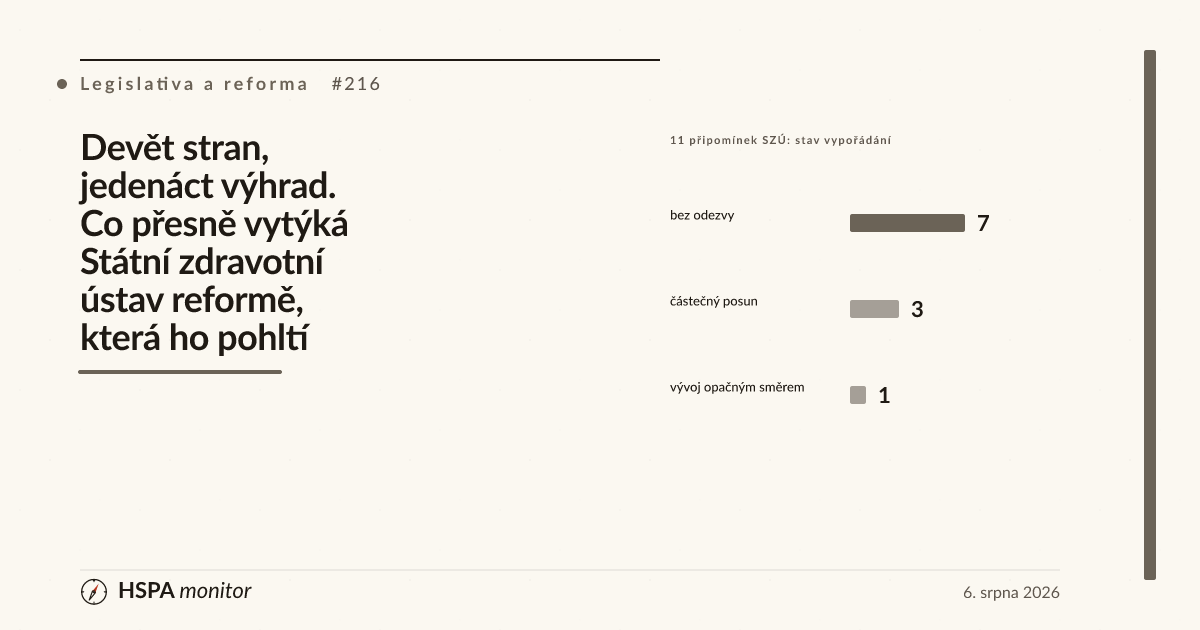
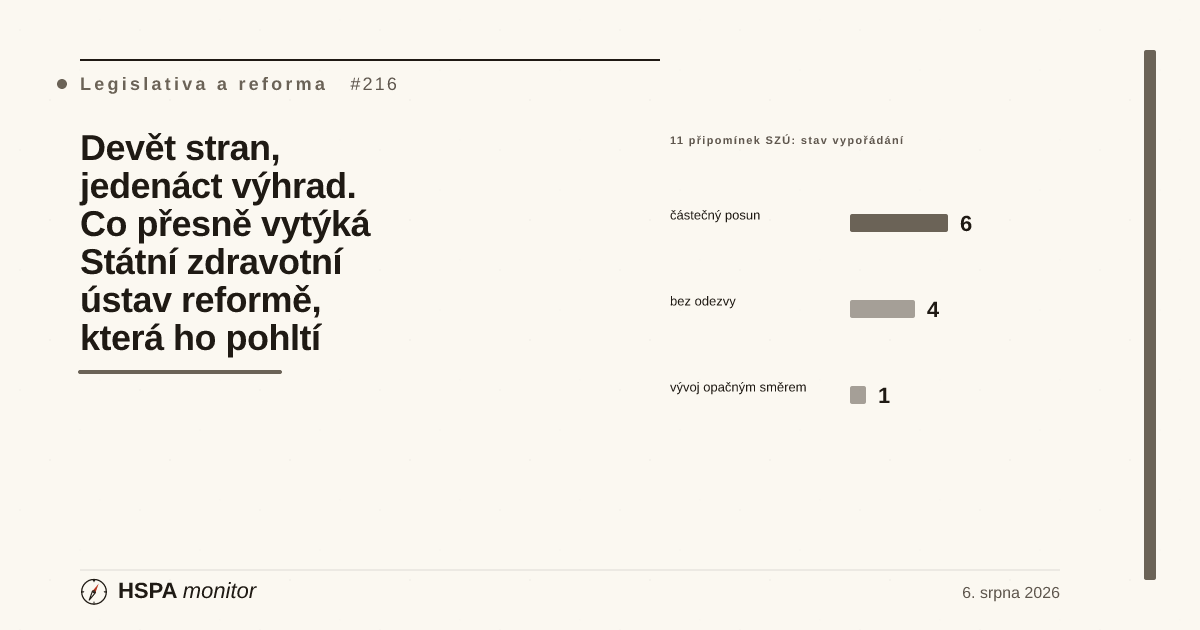
feat(clanky): zapracovan zapis IX — harmonogram fakticky rusi start 2028
Zapis z IX. jednani PS (15. 7. 2026, dodala redakce) do obou dilu serie:

Kompendium:
- timeline +IX. jednani (krizova cast hotova, RIA se zadava — nabidka
  1,4 mil. Kc, zvazovano akademicke pracoviste; duvodova zprava stavi
  na vystupech WHO workshopu; podskupiny "se zakladaji" se vsemi vedoucimi)
- HARMONOGRAM z prilohy zapisu: vnitrni PR 30. 9.-14. 10. 2026,
  fakultativni 7.-18. 12. 2026, meziresort 12. 4.-7. 5. 2027,
  LRV + vlada 30. 8. 2027 -> polozka "1. 1. 2028" prepnuta na
  "harmonogramem prekonan", realny start ~2029 (= casova osa scenare B,
  pozn. u scenaru aktualizovana)
- vysvedceni: aktualizacni odstavec (co se pohnulo + NCLP: ciselnik
  laboratornich polozek drzi ~3 pracovnici na DPP, ohrozena e-zadanka
  1. 7. 2027 — ilustrace krehkosti kapacit v duchu varovani SZU)
- podskupiny tabulka +radek IX; EPHF: duvodova zprava skutecne
  vyuziva WHO workshop; jednani 8x -> 9x; zdroje I.-IX.

Dil 2 (szu-pripominky-nivz) — prepocet vyporadani:
- vyhrada 1 (analyza): bez odezvy -> castecny posun (RIA + WHO workshop)
- vyhrady 8-9 (krize): bez odezvy -> castecny posun (krizova cast
  "dokoncena", obsah nezverejnen)
- vyhrada 4-5: +podskupina veda a vyzkum na navrh SZU
- nova bilance 6/4/1 sladena v decku, counteru, JSON-LD, perexu,
  cover_viz (cover pregenerovan) i zaveru; zaver navic: harmonogram
  posouva start za 1. 1. 2028

Verifikace: 973/973 testu, validate:all cisty, vsechna cisla overena
proti PDF zapisu IX; artefakty mimo diff.
[…]

diff --git a/05_M1_Starter/clanek-institut-verejneho-zdravi.html b/05_M1_Starter/clanek-institut-verejneho-zdravi.html
@@ -58,7 +58,7 @@
         "@id": "https://skorezdravotnictvi.cz/clanek-institut-verejneho-zdravi"
       },
       "datePublished": "2026-05-08",
-      "dateModified": "2026-08-07",
+      "dateModified": "2026-08-10",
       "author": {
         "@type": "Organization",
         "name": "HSPA Monitor",
@@ -141,7 +141,7 @@
       <div class="article-meta">
         <span class="article-meta-date">8. května 2026</span>
         <span class="article-meta-sep">·</span>
-        <span class="article-meta-date">aktualizováno 7. srpna 2026</span>
+        <span class="article-meta-date">aktualizováno 10. srpna 2026</span>
         <span class="article-meta-sep">·</span>
         <span class="article-meta-time">21 minut čtení</span>
         <span class="article-meta-sep">·</span>
@@ -157,7 +157,7 @@
 
       <p>
         <strong>Aktualizace 6. srpna 2026:</strong> Článek jsme podstatně rozšířili. Od jarního vydání se reforma posunula:
-        pracovní skupina ministerstva jednala osmkrát, návrh změnil jméno (z „Czech CDC" na <strong>Národní institut
+        pracovní skupina ministerstva jednala devětkrát, návrh změnil jméno (z „Czech CDC" na <strong>Národní institut
         veřejného zdraví</strong>, NIVZ) i ukotvení (samostatný ústřední orgán státní správy podřízený vládě, nikoli
         ministerstvu), Státní zdravotní ústav uplatnil zásadní připomínky a ministerstvo oznámilo, že návrh zákona zamíří
         do vnitřního připomínkového řízení na přelomu září a října 2026. Doplnili jsme finanční data slučovaných institucí,
@@ -315,26 +315,32 @@
             <p class="av-timeline-desc">Čtvrt roku po dohodě je teprve potřeba „informovat nominované o jejich členství". Shoda: nejprve legislativa, provozní detaily později.</p>
             <span class="av-timeline-tag">Kapacita</span>
           </li>
+          <li class="av-timeline-item av-timeline-item-done">
+            <time class="av-timeline-date">15. 7. 2026</time>
+            <h4 class="av-timeline-title">IX. jednání: harmonogram na stole, podskupiny se „zakládají"</h4>
+            <p class="av-timeline-desc">Krizová část návrhu dokončena; zadává se RIA (komerční nabídka 1,4 mil. Kč, zvažováno akademické pracoviště); důvodová zpráva staví na výstupech WHO workshopu. Podskupiny dostávají všechny vedoucí a mají „zintenzivnit činnost".</p>
+            <span class="av-timeline-tag">PS</span>
+          </li>
           <li class="av-timeline-item av-timeline-item-now">
             <time class="av-timeline-date">léto 2026</time>
-            <h4 class="av-timeline-title">Příprava paragrafového znění</h4>
-            <p class="av-timeline-desc">Novela zákona č. 258/2000 Sb., nebo zcela nový zákon; interní prezentace vedoucím pracovníkům dotčených institucí (13. 7.).</p>
+            <h4 class="av-timeline-title">Finalizace paragrafového znění</h4>
+            <p class="av-timeline-desc">Novela zákona č. 258/2000 Sb.; dle harmonogramu z IX. jednání finalizace textu do 30. 8. a předložení poradě vedení MZ.</p>
             <span class="av-timeline-tag">Teď</span>
           </li>
           <li class="av-timeline-item av-timeline-item-future">
-            <time class="av-timeline-date">přelom září/října 2026</time>
+            <time class="av-timeline-date">30. 9. – 14. 10. 2026</time>
             <h4 class="av-timeline-title">Vnitřní připomínkové řízení</h4>
-            <p class="av-timeline-desc">Termín potvrzený tiskovým oddělením MZ ČR. Následuje meziresort, vláda, parlament.</p>
+            <p class="av-timeline-desc">Dle harmonogramu (příloha zápisu IX): poté fakultativní PŘ 7.–18. 12. 2026, meziresort 12. 4. – 7. 5. 2027 a předložení Legislativní radě vlády a vládě 30. 8. 2027.</p>
             <span class="av-timeline-tag">Plán</span>
           </li>
-          <li class="av-timeline-item av-timeline-item-future">
+          <li class="av-timeline-item av-timeline-item-warn">
             <time class="av-timeline-date">1. 1. 2028</time>
-            <h4 class="av-timeline-title">Cílové spuštění NIVZ</h4>
-            <p class="av-timeline-desc">Mezi platným zákonem a startem instituce zbývají při tomto harmonogramu spíše měsíce než roky.</p>
+            <h4 class="av-timeline-title">Deklarovaný cíl spuštění NIVZ — harmonogramem překonán</h4>
+            <p class="av-timeline-desc">Jde-li návrh vládě až 30. 8. 2027, musel by parlament, Senát i prezident stihnout vše za čtyři měsíce. Reálný start se posouvá k roku 2029.</p>
             <span class="av-timeline-tag">Cíl</span>
           </li>
         </ol>
-        <p class="av-figure-note"><strong>Zdroj:</strong> zápisy z I.–VIII. jednání Pracovní skupiny pro reformu veřejného zdraví (ppo.mzcr.cz, 4. 3.–25. 6. 2026); vyjádření MZ ČR (srpen 2026). Staženo 6.–7. 8. 2026.</p>
+        <p class="av-figure-note"><strong>Zdroj:</strong> zápisy z I.–IX. jednání Pracovní skupiny pro reformu veřejného zdraví (ppo.mzcr.cz, 4. 3.–15. 7. 2026) vč. harmonogramu v příloze zápisu IX; vyjádření MZ ČR (srpen 2026). Staženo 6.–10. 8. 2026.</p>
       </figure>
 
       <h3>Peníze: systém, který pět let vysychá</h3>
@@ -678,9 +684,10 @@
         v ČR</strong> po vzoru Slovinska: institucionální mapování, dvoudenní expertní workshop (plánovaný na červen,
         s nominacemi z KHS a zdravotních ústavů) a finální report do zhruba čtyř měsíců, převážně hrazeno kanceláří WHO.
         Pokud harmonogram platil, výstup by měl být hotový kolem konce léta — tedy přesně včas na to, aby se stal
-        analytickou částí důvodové zprávy, jejíž absenci SZÚ reformě vytýká. K 7. 8. 2026 nebyl report veřejně dostupný;
-        jestli do vnitřního připomínkového řízení skutečně vstoupí, je jeden z nejjednodušších testů, zda reforma
-        s vlastní evidencí pracuje.
+        analytickou částí důvodové zprávy, jejíž absenci SZÚ reformě vytýká. A zápis z IX. jednání (15. 7.) naznačuje,
+        že se to skutečně děje: důvodová zpráva „je připravována s využitím výstupů z workshopu WHO" a draft výstupů
+        měl být rozeslán podskupinám. Samotný report k 10. 8. 2026 veřejně dostupný nebyl — jestli se v důvodové
+        zprávě na podzim objeví celý, zůstává nejjednodušším testem, zda reforma s vlastní evidencí pracuje.
       </p>
 
       <h3>Jak hodnotit systém veřejného zdraví: existující metodiky</h3>
@@ -1070,6 +1077,11 @@
                 <td>VIII.</td>
                 <td>„Pracovní podskupiny mají začít fungovat, je třeba jim distribuovat podklady a informovat nominované o jejich členství."</td>
               </tr>
+              <tr>
+                <th scope="row">15. 7.</th>
+                <td>IX.</td>
+                <td>podskupiny se „zakládají" — 4,5 měsíce po dohodě; doplněni zbývající vedoucí (ekonomika: E. Ježo, personální: M. Bartoš, právní: L. Krausová), rytmus 1× za 2 týdny, výstupy do konce srpna; právní a nová vědecko-výzkumná podskupina zatím „v pohotovosti (neaktivována)"</td>
+              </tr>
             </tbody>
           </table>
         </div>
@@ -1116,7 +1128,7 @@
         <ol class="av-bar-compare av-bar-compare-list" data-max="61" data-unit="&nbsp;FTE">
           <li class="av-bar-row" data-value="53" data-display="46–61" data-label="potřeba — špička" data-note="deset proudů výše"></li>
           <li class="av-bar-row" data-value="35" data-display="30–40" data-label="jádro na 2–3 roky"></li>
-          <li class="av-bar-row av-bar-row-bad" data-value="2" data-display="~1–2" data-label="realita dnes" data-note="PS 2 h / 14 dní + úkoly členů vedle vlastních institucí; podskupiny nefungují"></li>
+          <li class="av-bar-row av-bar-row-bad" data-value="2" data-display="~1–2" data-label="realita dnes" data-note="PS 2 h / 14 dní + úkoly členů vedle vlastních institucí; podskupiny se dle zápisu IX v červenci teprve zakládaly"></li>
         </ol>
         <p class="av-figure-note"><strong>Zdroj:</strong> odhad redakce; kadence a stav podskupin dle zápisů PS (4. 3.–25. 6. 2026). Rozdíl není o desítky procent — je o řád.</p>
       </figure>
@@ -1260,6 +1272,19 @@
       </p>
 
       <p>
+        <strong>Aktualizace po zápisu z IX. jednání (15. 7.):</strong> část deficitů se skutečně začala dohánět —
+        podskupiny dostaly zbývající vedoucí a čtrnáctidenní rytmus, krizová část návrhu je hotová, zadává se RIA
+        a důvodová zpráva staví na výstupech WHO workshopu. Zároveň ale příloha zápisu poprvé ukázala úplný
+        legislativní harmonogram — a ten <strong>fakticky ruší deklarovaný start 1. 1. 2028</strong>: meziresortní
+        připomínkové řízení je plánováno až na duben 2027 a vládě má návrh doputovat 30. 8. 2027. Aby institut vznikl
+        v roce 2028, musel by parlament, Senát i prezident stihnout celé projednání za čtyři měsíce; reálný horizont
+        se posouvá k roku 2029 — tedy tam, kam mířil náš scénář B. A zápis přinesl i novou ilustraci křehkosti
+        expertních kapacit, přesně v duchu varování SZÚ: národní číselník laboratorních položek, na kterém stojí
+        plánované real-time hlášení laboratorních výsledků i e-žádanka (start 1. 7. 2027), fakticky spravují
+        „cca tři pracovníci na DPP".
+      </p>
+
+      <p>
         Co sledovat na podzim, až návrh vstoupí do připomínkového řízení: <strong>za prvé</strong>, jestli důvodová
         zpráva obsahuje skutečnou analýzu a varianty, nebo jen zdůvodnění jediného řešení. <strong>Za druhé</strong>,
         jestli vláda spolu se zákonem schválí transformační tým s rozpočtem a jmenovitým programovým ředitelem na plný
@@ -1300,7 +1325,7 @@
             </tbody>
           </table>
         </div>
-        <p class="av-figure-note"><strong>Pozn.:</strong> jde o redakční odhad možných průběhů, ne predikci — pravděpodobnosti nepřiřazujeme. Kritéria, podle kterých se scénáře rozliší, odpovídají pěti bodům výše.</p>
+        <p class="av-figure-note"><strong>Pozn.:</strong> jde o redakční odhad možných průběhů, ne predikci — pravděpodobnosti nepřiřazujeme. Kritéria, podle kterých se scénáře rozliší, odpovídají pěti bodům výše. <strong>Aktualizace 10. 8.:</strong> harmonogram z přílohy zápisu IX (vládě 30. 8. 2027) posouvá start institutu za rok 2028 i v optimistické větvi — časová osa scénáře B se stala oficiálním plánem; o obsahu (analýza, varianty, čísla) se rozhodne na podzim.</p>
       </figure>
 
     </div>
@@ -1345,7 +1370,7 @@
       <div class="sources-group">
         <h5 class="sources-group-h">Primární dokumenty reformy (aktualizace 8/2026)</h5>
         <ul class="article-sources-list">
-          <li><strong>Zápisy z I.–VIII. jednání Pracovní skupiny pro reformu veřejného zdraví v ČR</strong> — 4. 3. až 25. 6. 2026, portál pracovních orgánů MZ ČR. Zdroj chronologie, rozpočtových řad (III. jednání), směru „pod vládu" a variant vzniku (IV.), struktury NIVZ (VII.–VIII.) i stavu podskupin. <a href="https://ppo.mzcr.cz/workGroup/227" target="_blank" rel="noopener">ppo.mzcr.cz ↗</a></li>
+          <li><strong>Zápisy z I.–IX. jednání Pracovní skupiny pro reformu veřejného zdraví v ČR</strong> — 4. 3. až 15. 7. 2026, portál pracovních orgánů MZ ČR. Zdroj chronologie, rozpočtových řad (III. jednání), směru „pod vládu" a variant vzniku (IV.), struktury NIVZ (VII.–VIII.), stavu podskupin i legislativního harmonogramu (příloha zápisu IX: vnitřní PŘ 30. 9.–14. 10. 2026, meziresort 12. 4.–7. 5. 2027, vládě 30. 8. 2027). <a href="https://ppo.mzcr.cz/workGroup/227" target="_blank" rel="noopener">ppo.mzcr.cz ↗</a></li>
           <li><strong>Připomínky vedení SZÚ k návrhu koncepce „Czech CDC / Státní ústav veřejného zdraví"</strong> — 24. 5. 2026, zpracovala Ing. Sosnovcová; příloha zápisu ze VII. jednání PS. Zdroj citací o chybějící analýze, variantách, ekonomice OSS vs. příspěvkové organizace a § 69/80/82.</li>
           <li><strong>Statut Pracovní skupiny</strong> — zřizovací dekret ministra zdravotnictví č. 11/2026/ZDM (čl. 2: analýza → problémy → varianty → přechodná opatření); citováno dle připomínek SZÚ.</li>
           <li><strong>Deník N</strong> — M. Boubínová: „Vojtěch chystá obří reformu ochrany veřejného zdraví" (srpen 2026). Zdroj termínu vnitřního připomínkového řízení (přelom září/října), reakcí R. Maďara a vyjádření tiskového oddělení MZ ČR. <a href="https://denikn.cz/2146297/vojtech-chysta-obri-reformu-ochrany-verejneho-zdravi-co-je-v-planu-a-proc-navrh-kritizuje-zdravotni-ustav/" target="_blank" rel="noopener">denikn.cz ↗</a></li>

diff --git a/05_M1_Starter/clanek-szu-pripominky-nivz.html b/05_M1_Starter/clanek-szu-pripominky-nivz.html
@@ -43,7 +43,7 @@
       "@type": "NewsArticle",
       "@id": "https://skorezdravotnictvi.cz/clanek-szu-pripominky-nivz#article",
       "headline": "Devět stran, jedenáct výhrad. Co přesně vytýká Státní zdravotní ústav reformě, která ho pohltí",
-      "description": "Instituce, kterou má reforma veřejného zdraví sloučit do nového Národního institutu veřejného zdraví, poslala pracovní skupině ministerstva devět stran zásadních připomínek. Přečetli jsme je bod po bodu — a proti zápisům z jednání jsme dohledali, co se s každou výhradou zatím stalo. Výsledek: tři se pohnuly aspoň napůl, jedna se vyvinula přesně opačně a sedm zůstává bez odpovědi.",
+      "description": "Instituce, kterou má reforma veřejného zdraví sloučit do nového Národního institutu veřejného zdraví, poslala pracovní skupině ministerstva devět stran zásadních připomínek. Přečetli jsme je bod po bodu — a proti zápisům z jednání jsme dohledali, co se s každou výhradou zatím stalo. Výsledek: šest se jich po devátém jednání pohnulo aspoň napůl, jedna se vyvinula přesně opačně a čtyři zůstávají bez odpovědi.",
       "inLanguage": "cs-CZ",
       "image": [
         "https://skorezdravotnictvi.cz/assets/covers/clanek-szu-pripominky-nivz.png"
@@ -54,7 +54,7 @@
         "@id": "https://skorezdravotnictvi.cz/clanek-szu-pripominky-nivz"
       },
       "datePublished": "2026-08-06",
-      "dateModified": "2026-08-07",
+      "dateModified": "2026-08-10",
       "author": {
         "@type": "Organization",
         "name": "HSPA Monitor",
@@ -134,13 +134,13 @@
       <p class="article-deck">
         Instituce, kterou má reforma veřejného zdraví sloučit do nového Národního institutu veřejného zdraví, poslala
         pracovní skupině ministerstva devět stran zásadních připomínek. Přečetli jsme je bod po bodu — a proti zápisům
-        z jednání jsme dohledali, co se s každou výhradou zatím stalo. Výsledek: tři se pohnuly aspoň napůl, jedna
-        se vyvinula přesně opačně a sedm zůstává bez odpovědi.
+        z jednání jsme dohledali, co se s každou výhradou zatím stalo. Výsledek: šest se jich po devátém jednání
+        pohnulo aspoň napůl, jedna se vyvinula přesně opačně a čtyři zůstávají bez odpovědi.
       </p>
       <div class="article-meta">
         <span class="article-meta-date">6. srpna 2026</span>
         <span class="article-meta-sep">·</span>
-        <span class="article-meta-date">aktualizováno 7. srpna 2026</span>
+        <span class="article-meta-date">aktualizováno 10. srpna 2026</span>
         <span class="article-meta-sep">·</span>
         <span class="article-meta-time">11 minut čtení</span>
         <span class="article-meta-sep">·</span>
@@ -177,9 +177,9 @@
             <span class="av-counter-foot">sloučení 14 KHS do jednoho úřadu je „institucionálně odůvodněné"</span>
           </div>
           <div class="av-counter-block av-counter-block-bad">
-            <span class="av-counter" data-value="7">7</span>
-            <span class="av-counter-label">výhrad zatím bez odezvy</span>
-            <span class="av-counter-foot">hodnocení redakce podle zápisů z VII. a VIII. jednání PS</span>
+            <span class="av-counter" data-value="4">4</span>
+            <span class="av-counter-label">výhrady zatím bez odezvy</span>
+            <span class="av-counter-foot">hodnocení redakce podle zápisů ze VII.–IX. jednání PS</span>
           </div>
         </div>
         <p class="av-figure-note"><strong>Zdroj:</strong> Připomínky vedení SZÚ k návrhu koncepce „Czech CDC / Státní ústav veřejného zdraví", 24. 5. 2026; zápisy PS (ppo.mzcr.cz/workGroup/227).</p>
@@ -439,11 +439,11 @@
       <p>
         Dokument se stal přílohou zápisu ze VII. jednání (26. 5.) a zástupce SZÚ dostal za úkol stanovisko
         odprezentovat. Porovnali jsme pak každou výhradu s tím, co zachycují zápisy z jednání pracovní skupiny —
-        zejména ze IV. (13. 4.), VII. (26. 5.) a VIII. (25. 6.):
+        zejména ze IV. (13. 4.), VII. (26. 5.), VIII. (25. 6.) a IX. (15. 7.):
       </p>
 
       <figure class="av-figure av-figure-wide" aria-labelledby="avTabVyporH">
-        <figcaption class="av-figure-h" id="avTabVyporH">Vypořádání připomínek podle veřejných zápisů (stav k 6. 8. 2026)</figcaption>
+        <figcaption class="av-figure-h" id="avTabVyporH">Vypořádání připomínek podle veřejných zápisů (stav k 10. 8. 2026)</figcaption>
         <div class="av-data-table-wrap">
           <table class="av-data-table">
             <thead>
@@ -456,7 +456,7 @@
             <tbody>
               <tr>
                 <th scope="row">4–5 · laboratoře a financování</th>
-                <td>VII. jednání: laboratorní část má fungovat jako <strong>samostatná příspěvková organizace s vlastním IČO</strong> řízená NIVZ; vznikne podskupina pro „úřední laboratoře"</td>
+                <td>VII. jednání: laboratorní část má fungovat jako <strong>samostatná příspěvková organizace s vlastním IČO</strong> řízená NIVZ; vznikne podskupina pro „úřední laboratoře". IX. jednání: na návrh SZÚ zřízena podskupina pro vědu a výzkum a odborná podskupina se dělí na hygienickou a laboratorní část</td>
                 <td class="av-good">částečný posun</td>
               </tr>
               <tr>
@@ -471,8 +471,8 @@
               </tr>
               <tr>
                 <th scope="row">1 · analýza východisek</th>
-                <td>VIII. jednání: prezentace o Semaškově modelu a systémových problémech — prezentace na jednání ale není doložená analýza, kterou statut předepisuje</td>
-                <td class="av-bad">bez odezvy</td>
+                <td>VIII. jednání: jen prezentace o Semaškově modelu. IX. jednání (15. 7.): zadává se <strong>RIA</strong> (komerční nabídka 1,4 mil. Kč, zvažováno akademické pracoviště, termín 38. týden) a důvodová zpráva se připravuje „s využitím výstupů z workshopu WHO" — analytická výbava tedy vzniká, výsledek bude vidět až v připomínkovém řízení</td>
+                <td class="av-mut">částečný posun</td>
               </tr>
               <tr>
                 <th scope="row">6 · varianty</th>
@@ -486,8 +486,8 @@
               </tr>
               <tr>
                 <th scope="row">8–9 · § 69 a krizové řízení</th>
-                <td>VII. jednání potvrdilo dvoustupňové správní řízení (odvolání), o § 69 a krajských krizových strukturách zápisy mlčí</td>
-                <td class="av-bad">bez odezvy</td>
+                <td>VII. jednání potvrdilo dvoustupňové správní řízení (odvolání). IX. jednání: krizová část návrhu („krizařina", § 86x) je „dokončena" ve spolupráci s legislativou MZ — obsah ale nebyl zveřejněn, takže jak se pravomoci rozdělí, se ukáže až v paragrafovém znění</td>
+                <td class="av-mut">částečný posun</td>
               </tr>
               <tr>
                 <th scope="row">2 · opomíjené agendy · 10 · screeningy</th>
@@ -497,7 +497,7 @@
             </tbody>
           </table>
         </div>
-        <p class="av-figure-note"><strong>Zdroj:</strong> zápisy ze IV. (13. 4. 2026), VII. (26. 5. 2026) a VIII. (25. 6. 2026) jednání PS, ppo.mzcr.cz/workGroup/227. Hodnocení stavu = redakce; formální vypořádání připomínek nebylo v zápisech publikováno.</p>
+        <p class="av-figure-note"><strong>Zdroj:</strong> zápisy ze IV. (13. 4.), VII. (26. 5.), VIII. (25. 6.) a IX. (15. 7. 2026) jednání PS, ppo.mzcr.cz/workGroup/227. Hodnocení stavu = redakce; formální vypořádání připomínek nebylo v zápisech publikováno.</p>
       </figure>
 
       <p>
@@ -528,9 +528,9 @@
       </p>
 
       <p>
-        Nejbližší příležitost se pozná snadno: návrh zákona má na přelomu září a října zamířit do vnitřního
+        Nejbližší příležitost se pozná snadno: podle harmonogramu z přílohy zápisu IX má návrh zamířit do vnitřního
         připomínkového řízení. Důvodová zpráva buď bude obsahovat analýzu, varianty a vyčíslení náhrady laboratorních
-        příjmů — nebo nebude. Do té doby platí poslední řádek naší tabulky: sedm z jedenácti výhrad bez odezvy.
+        příjmů — nebo nebude. Bilance po devíti jednáních: šest výhrad v částečném posunu, čtyři bez odezvy a jedna vyřízená přesně opačně, než si její autor přál. A tentýž harmonogram mimochodem posouvá předložení návrhu vládě až na 30. 8. 2027 — deklarovaný start institutu 1. 1. 2028 tím přestává být reálný.
       </p>
 
     </div>
@@ -574,8 +574,7 @@
         <strong>Pozn. k údajům:</strong> Citace v uvozovkách jsou doslovné z dokumentu připomínek SZÚ (24. 5. 2026);
         parafráze a členění do tabulek provedla redakce. Hodnocení „systémová / smíšená" a stav vypořádání jsou
         redakční interpretací — formální vypořádání připomínek nebylo k 6. 8. 2026 ve veřejných zápisech pracovní
-        skupiny publikováno a stav se může změnit (další jednání PS byla dle zápisu z VIII. jednání plánována
-        na 15. 7. a 7. 8. 2026). Dokument připomínek má redakce k dispozici v plném znění.
+        skupiny publikováno a stav se může změnit (zápis z IX. jednání, 15. 7. 2026, je v článku zapracován; X. jednání bylo plánováno na 7. 8. 2026 a jeho zápis zatím nebyl k dispozici). Dokument připomínek má redakce k dispozici v plném znění.
       </p>
     </section>
 
